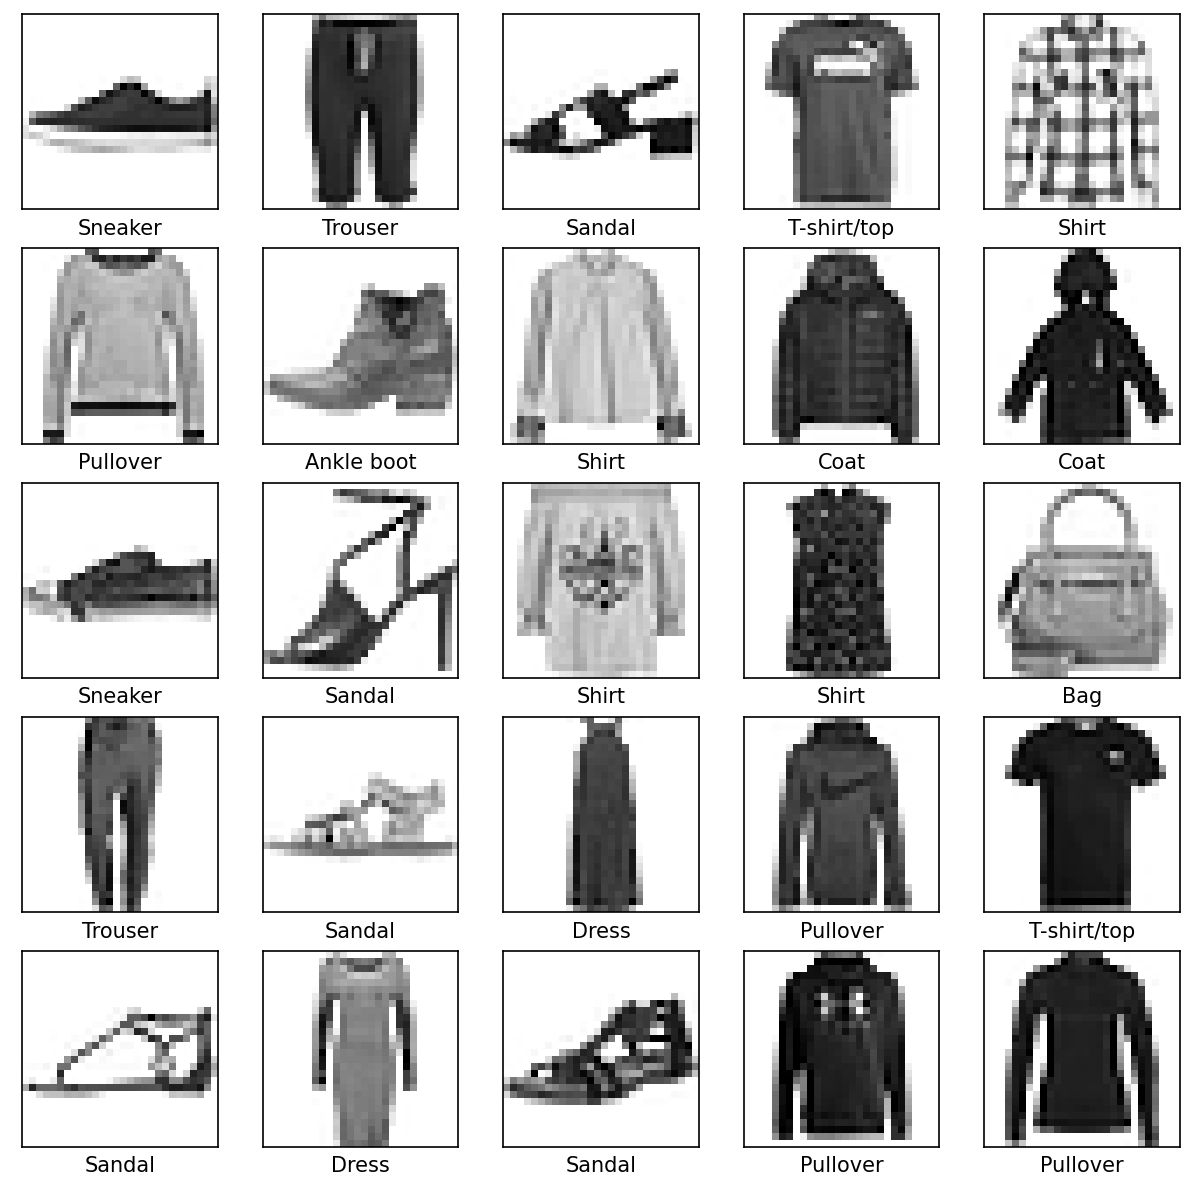
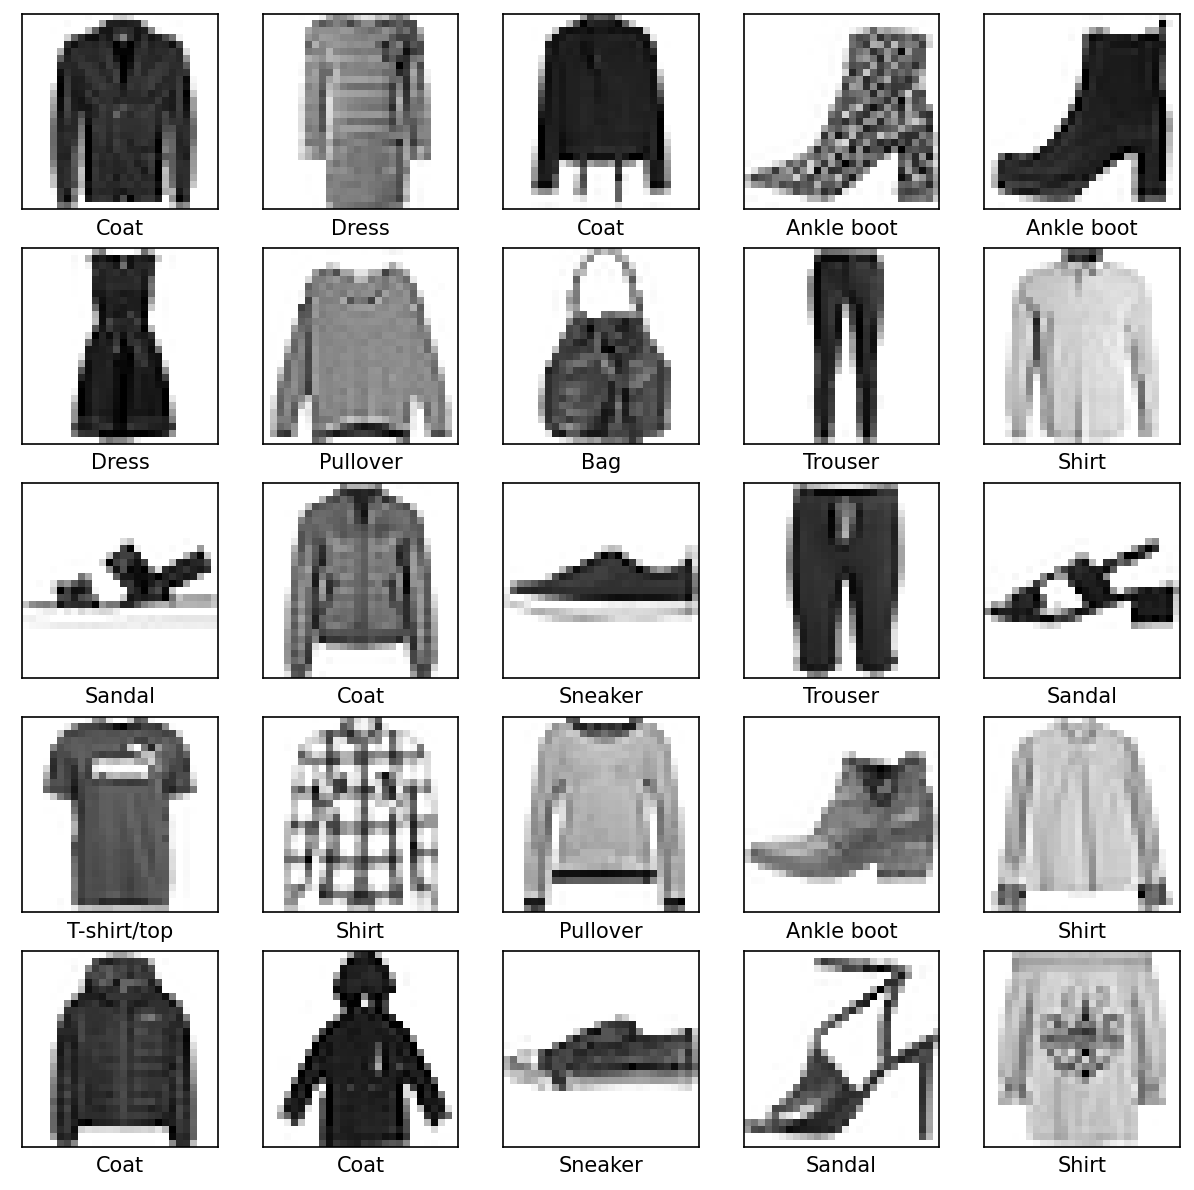
update

diff --git a/_posts/Dev Log/2023-02-19-fashion_mnist.md b/_posts/Dev Log/2023-02-19-fashion_mnist.md
@@ -19,17 +19,24 @@ header:
 last_modified_at: 2023-02-19
 ---
 
+
 <br><br>
+
 
 ![image-right]({{ site.url }}{{ site.baseurl }}/assets/images/etc/fashion-902657_1920.jpg){: .align-center width="70%"}  
 
-<br><br>
 
 <br><br>
+
+
+<br><br>
+
 
 # Fashion MNIST, 인공신경망 구성  
 
+
 <br><br>
+
 
 ## 도입  
 >- Fashion MNIST 데이터로 인공신경망 만들기  
@@ -57,6 +64,43 @@ print(f"{train_images.shape},{train_labels.shape},{test_images.shape},{test_labe
 - keras.datasets.fashion_mnist.load_data() 메써드는 넘파이 튜플을 반환한다.
 - 학습데이터는 60,000개, 평가데이터는 10,000개이다.
 - 28픽셀의 흑/백 특성을 담고 있다.
+
+<br>
+
+### 데이터 정규화
+- 데이터를 255로 나누어 0~1사이의 수로 정규화(Normalization)한다.
+- 정규화 하는 이유?
+  - 0~1 사이로 맞추어 계산 값이 너무 커지는 것을 방지
+  - Local Minimun에 빠지는 것을 방지(학습 속도 향상)
+
+- 훈련데이터 인덱스20,000번 데이터의 정규화 하기 이전 값 살펴보기
+
+```python
+train_images[attention_train][10]
+```
+
+```
+array([  0,   0,   0,   0,   0,   0,   0,   0,   2,   0,   0,   0,   0,
+       160, 255, 217, 255,  94,   0,   0,   0,   1,   4,   0,   0,   0,
+        65,  38], dtype=uint8)
+```
+
+- 정규화 실행 $x - x_{min} \over x_{max} - x_{min}$  
+  - 최소값이 0이기 때문에 최대값(255)로 나누기만 하였다
+
+```python
+train_images = train_images / 255.0
+test_images = test_images / 255.0
+```
+
+```
+array([0.        , 0.        , 0.        , 0.        , 0.        ,
+       0.        , 0.        , 0.        , 0.00784314, 0.        ,
+       0.        , 0.        , 0.        , 0.62745098, 1.        ,
+       0.85098039, 1.        , 0.36862745, 0.        , 0.        ,
+       0.        , 0.00392157, 0.01568627, 0.        , 0.        ,
+       0.        , 0.25490196, 0.14901961])
+```
 
 <br>
 
@@ -88,20 +132,20 @@ print(pd.DataFrame({'Label':class_names}).to_markdown())
 - 훈련데이터 인덱스20,000번 데이터를 시각화 해보자
 
 ```python
-plt.imshow(train_images[20000], cmap='gray_r')
+plt.imshow(train_images[attention_train], cmap='gray_r')
 plt.colorbar(shrink = .4)
 plt.grid(False)
 plt.show()
 ```
 
-![image-right]({{ site.url }}{{ site.baseurl }}/assets/images/coding/f_mnist/f_mnist_20000.png){: .align-center width="60%"}  
+![image]({{ site.url }}{{ site.baseurl }}/assets/images/coding/f_mnist/f_mnist_train20000.png){: .align-center width="60%"}  
 
 <br>
 
 - 훈련데이터 25개 데이터를 시각화 해보자
 
 ```python
-for i, val in enumerate(range(20000,20025)):
+for i, val in enumerate(range(attention_train-12,attention_train+13)):
     plt.subplot(5,5,i+1)
     plt.xticks([])
     plt.yticks([])
@@ -111,16 +155,7 @@ for i, val in enumerate(range(20000,20025)):
 plt.show()
 ```
 
-![image-right]({{ site.url }}{{ site.baseurl }}/assets/images/coding/f_mnist/f_mnist_review.png){: .align-center width="80%"}  
-
-<br>
-
-- 데이터를 정규화(Normalization)한다.
-
-```python
-train_images = train_images / 255.0
-test_images = test_images / 255.0
-```
+![image]({{ site.url }}{{ site.baseurl }}/assets/images/coding/f_mnist/f_mnist_review.png){: .align-center width="80%"}  
 
 
 <br><br>
@@ -128,7 +163,7 @@ test_images = test_images / 255.0
 
 ## 모델링
 
-- 모델 구성하기
+### 모델 구성하기
 
 ```python
 model = tf.keras.Sequential([
@@ -146,6 +181,9 @@ model.compile(optimizer='adam',
 - 은닉층의 노드는 128개, 활성화함수는 relu를 사용했다.
 - 출력층은 10개 노드와 softmax 활성화함수를 지정하였다.
 
+<br>
+
+### 모델 학습하고 평가하기
 
 ```python
 model.fit(train_images, train_labels, epochs=10)
@@ -183,48 +221,82 @@ Test accuracy: 0.8863000273704529
 - 평가데이터에 대하여 정확도를 산출
 - 평가정확도 88.6%
 
+<br>
 
+### 모델 확인하기
 
-```python
-
-```
-
-```
-
-```
-
-
+- 모델 추정  
 
 ```python
-
+probability_model = tf.keras.Sequential([model, keras.layers.Softmax()])
+predictions = probability_model.predict(test_images)
 ```
 
-```
+#### 평가 인덱스 2,000번, 모델 추정  
 
-```
-
+- 모델은 8번(Bag)이라 예측
+- 추정이 맞는지 확인해 보자
 
 ```python
-
+i = test_1
+plt.figure(figsize=(6,3))
+plt.subplot(1,2,1)
+plot_image(i, predictions[i], test_labels, test_images)
+plt.subplot(1,2,2)
+plot_value_array(i, predictions[i],  test_labels)
+plt.xticks(range(10), class_names, rotation=90)
+plt.show()
 ```
 
-```
+![image]({{ site.url }}{{ site.baseurl }}/assets/images/coding/f_mnist/f_mnist_test1.png){: .align-center width="70%"}  
 
-```
+- 맞았다~!😄
 
+#### 평가 인덱스 800번, 모델 추정  
 
+- 모델은 9번(Ankle boot)이라 예측
+- 추정이 맞는지 확인해 보자
 
 ```python
-
+i = test_2
+plt.subplot(1,2,1)
+plot_image(i, predictions[i], test_labels, test_images)
+plt.subplot(1,2,2)
+plot_value_array(i, predictions[i],  test_labels)
+plt.xticks(range(10), class_names, rotation=90)
+plt.show()
 ```
 
+![image]({{ site.url }}{{ site.baseurl }}/assets/images/coding/f_mnist/f_mnist_test2.png){: .align-center width="70%"}  
+
+- 틀렸다...😥
+
+#### 평가 인덱스 0~14번, 모델 추정  
+
+```python
+num_rows = 5
+num_cols = 3
+num_images = num_rows*num_cols
+
+fig, ax = plt.subplots( figsize=(2*2*num_cols, 2*num_rows) )
+
+for i in range(num_images):
+  plt.subplot(num_rows, 2*num_cols, 2*i+1)
+  plot_image(i, predictions[i], test_labels, test_images)
+  plt.subplot(num_rows, 2*num_cols, 2*i+2)
+  plot_value_array(i, predictions[i], test_labels)
+plt.tight_layout()
+plt.show()
 ```
 
-```
+![image]({{ site.url }}{{ site.baseurl }}/assets/images/coding/f_mnist/f_mnist_test15s.png){: .align-center width="70%"} 
+
+- 모델이 대부분 맞혔다(파란색)
 
 
+#### 혼돈행렬(Confusion Matrix)  
 
-
+![image]({{ site.url }}{{ site.baseurl }}/assets/images/coding/f_mnist/f_mnist_cm.png){: .align-center width="70%"} 
 
 
 

diff --git a/_posts/Dev Log/2023-02-18-mnist.md b/_posts/Dev Log/2023-02-18-mnist.md
@@ -157,8 +157,8 @@ model.evaluate(x_test,  y_test, verbose=2)
 
 - 5번 순전파와 역전파를 반복하며 신경망을 학습
 - 평가 데이터에 대하여 Accuracy를 반환
-- 정확도 약98%
-- 혼돈도표를 확인해보면 대부분 맞춘 것을 확인 할 수 있다.
+- 정확도 약 97.8%
+- 혼돈행렬(Confusion Matrix)을 확인해보면 대부분 맞춘 것을 확인 할 수 있다.
 
 ![image-right]({{ site.url }}{{ site.baseurl }}/assets/images/coding/mnist/mnist_cm.png){: .align-center width="90%"}
 
